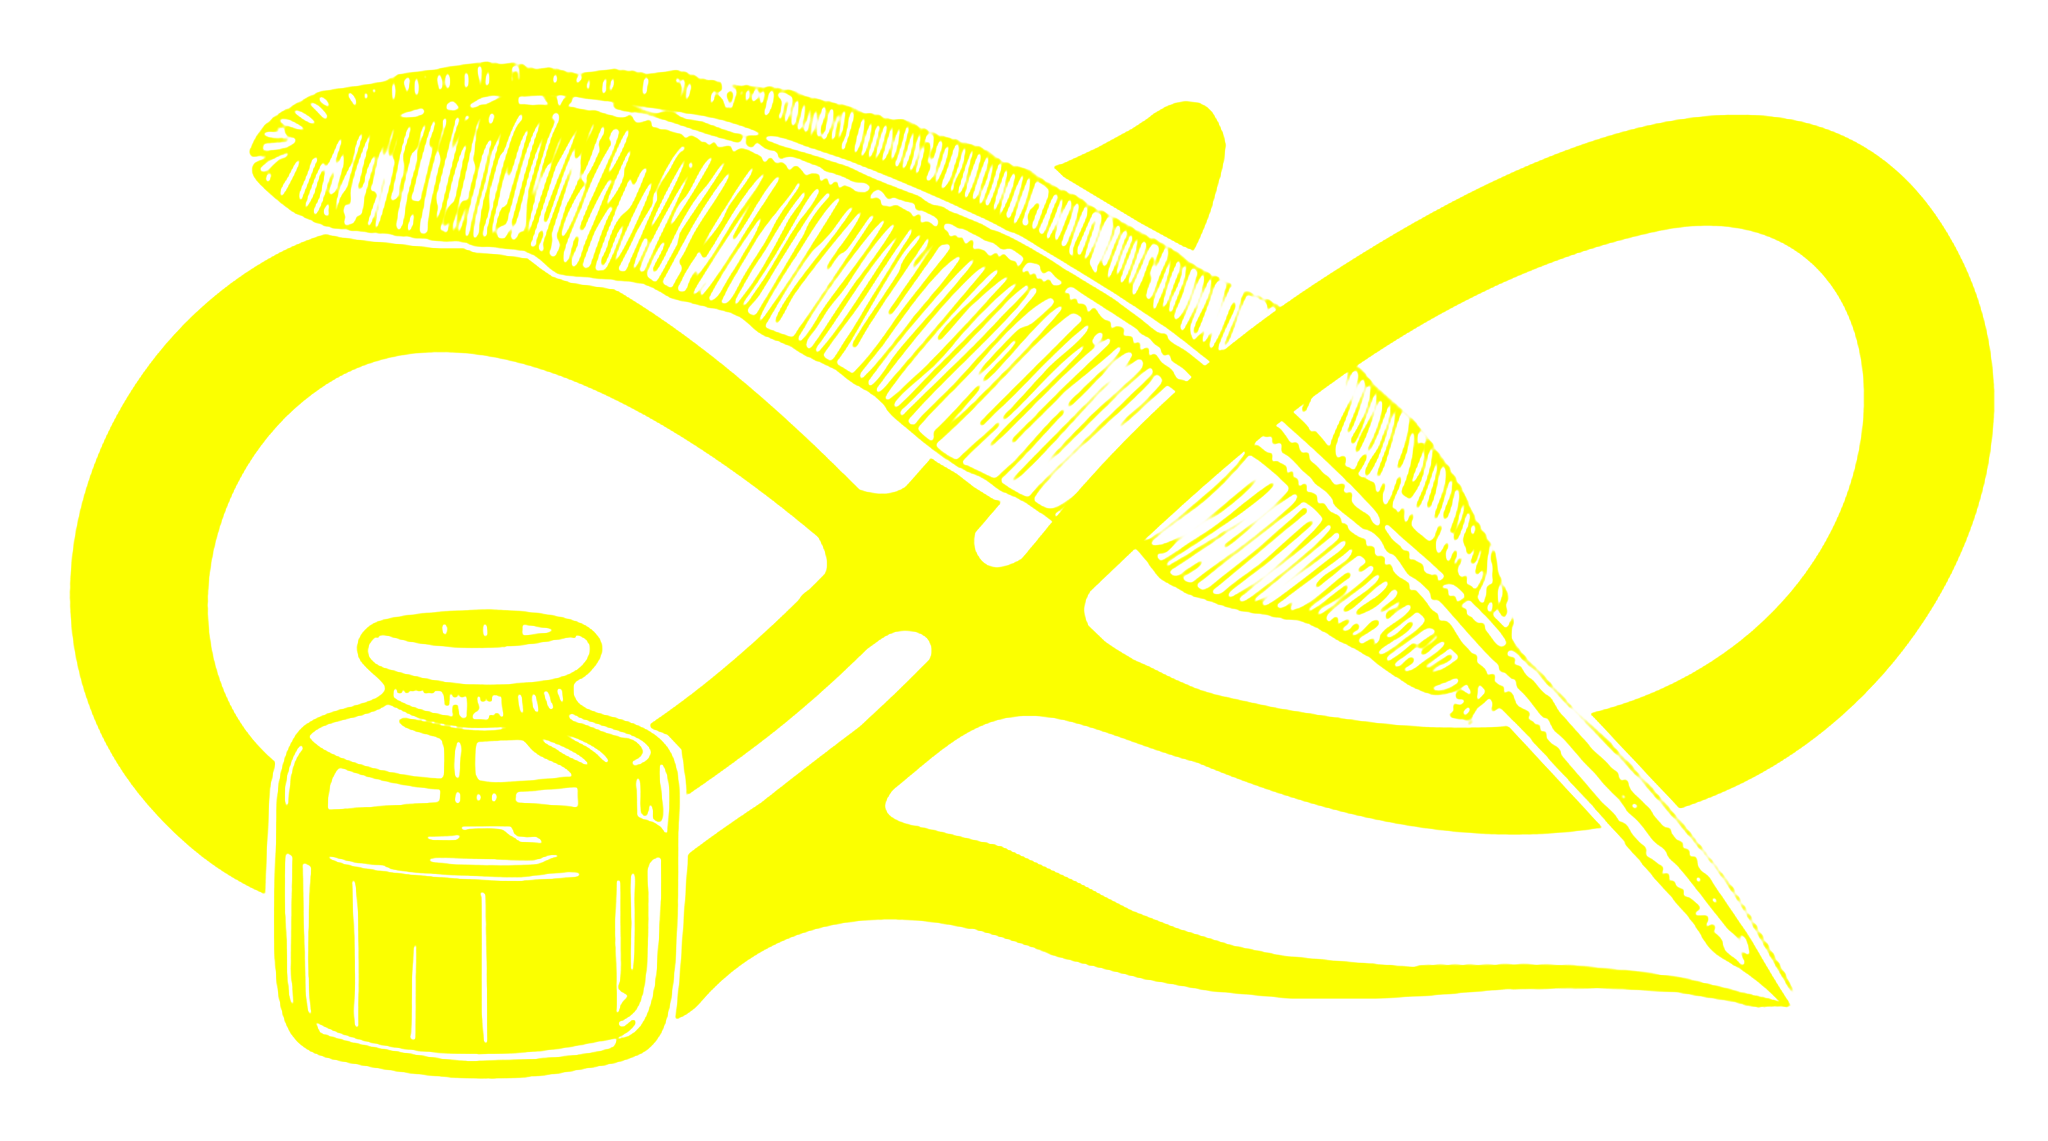
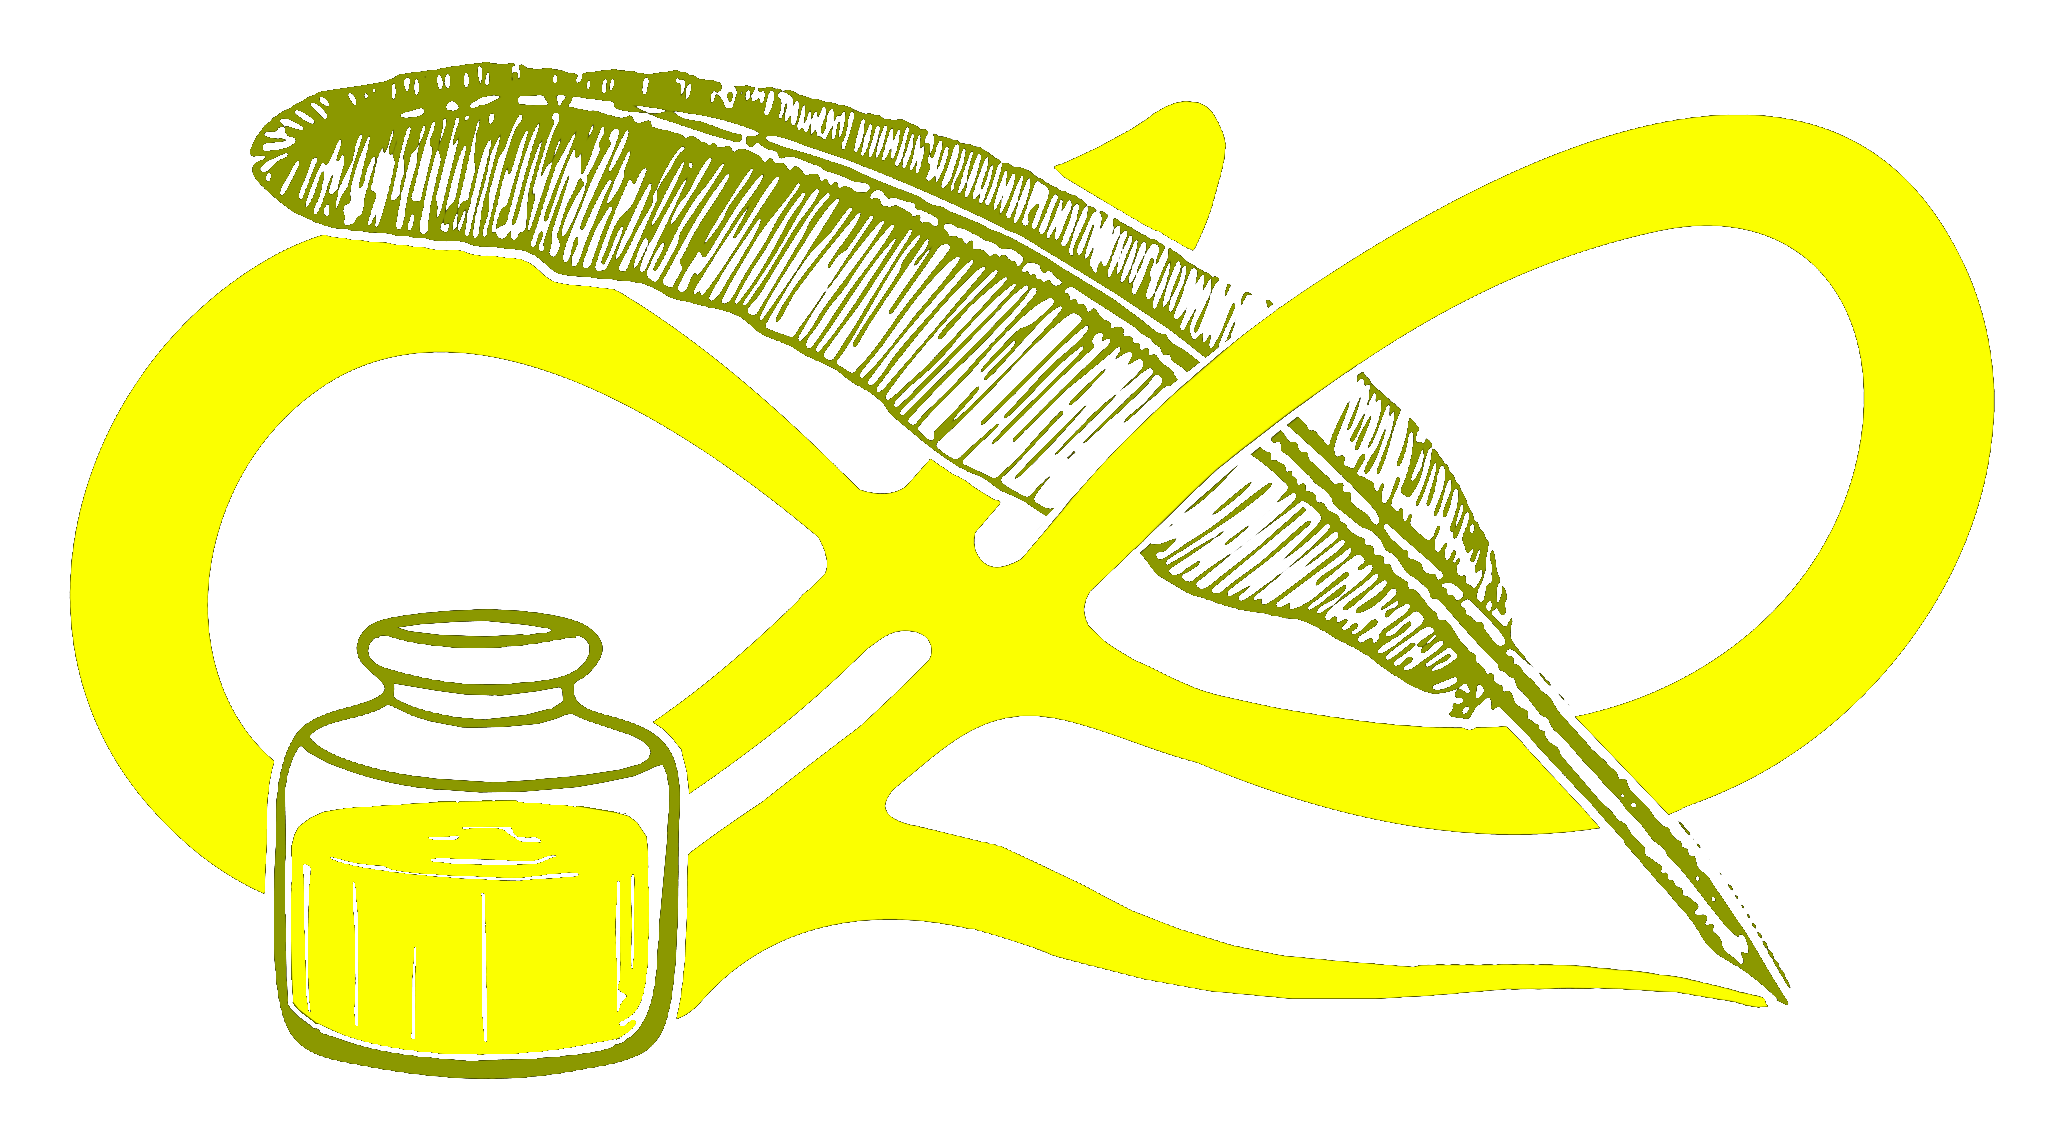
feat: updating header imgs

Changed region(s): [[0.125, 0.0307, 0.625, 0.4601], [0.5312, 0.3067, 0.875, 0.8896], [0.125, 0.5215, 0.3438, 0.9509]]

diff --git a/app/header/Header.js b/app/header/Header.js
@@ -10,10 +10,10 @@ export default function Header({ logo }) {
             <img
               src={
                 logo === 'blog'
-                  ? '/i/sm/header/blog.webp'
+                  ? '/i/header/blog.png'
                   : logo === 'pics'
-                    ? '/i/sm/header/jockbaia.webp'
-                    : '/i/sm/header/jockbaia.webp'
+                    ? '/i/header/pics.png'
+                    : '/i/header/jockbaia.png'
               }
               className="floating"
               alt="Header Logo"

diff --git a/app/tag/[tag]/page.tsx b/app/tag/[tag]/page.tsx
@@ -72,9 +72,15 @@ export default async function TagPage({
   const fileNames = fs.readdirSync(DATA_DIRECTORY);
   const articles = getArticlesByTag(fileNames, tag);
 
+  // Determine logo based on tag
+  let logo;
+  if (tag === 'photography') {
+    logo = 'pics';
+  }
+
   return (
     <div>
-      <Header logo={undefined} />
+      <Header logo={logo} />
       <div className={styles.container}>
         <div className={styles.grid}>
           {articles.map((article) => (
